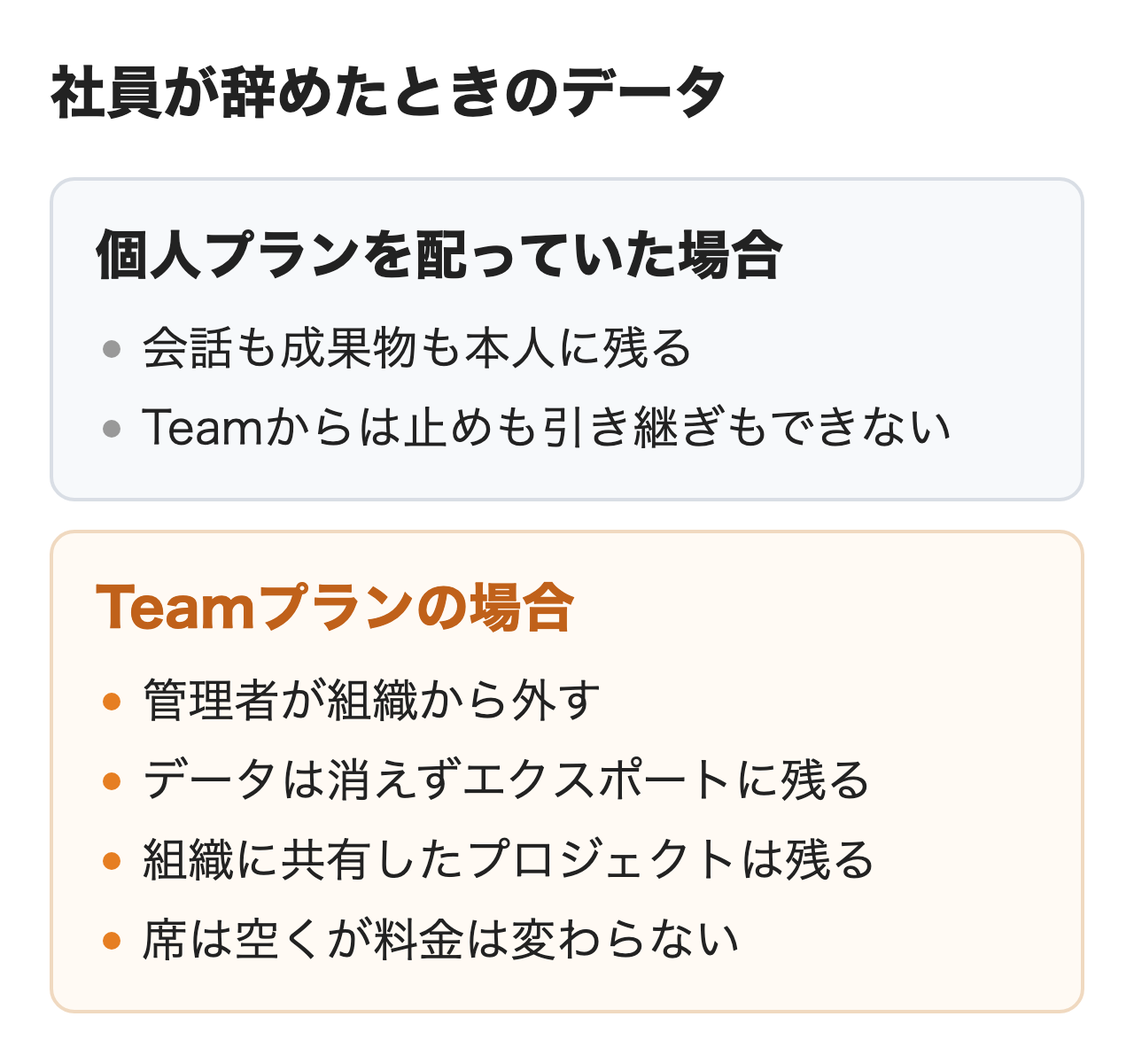
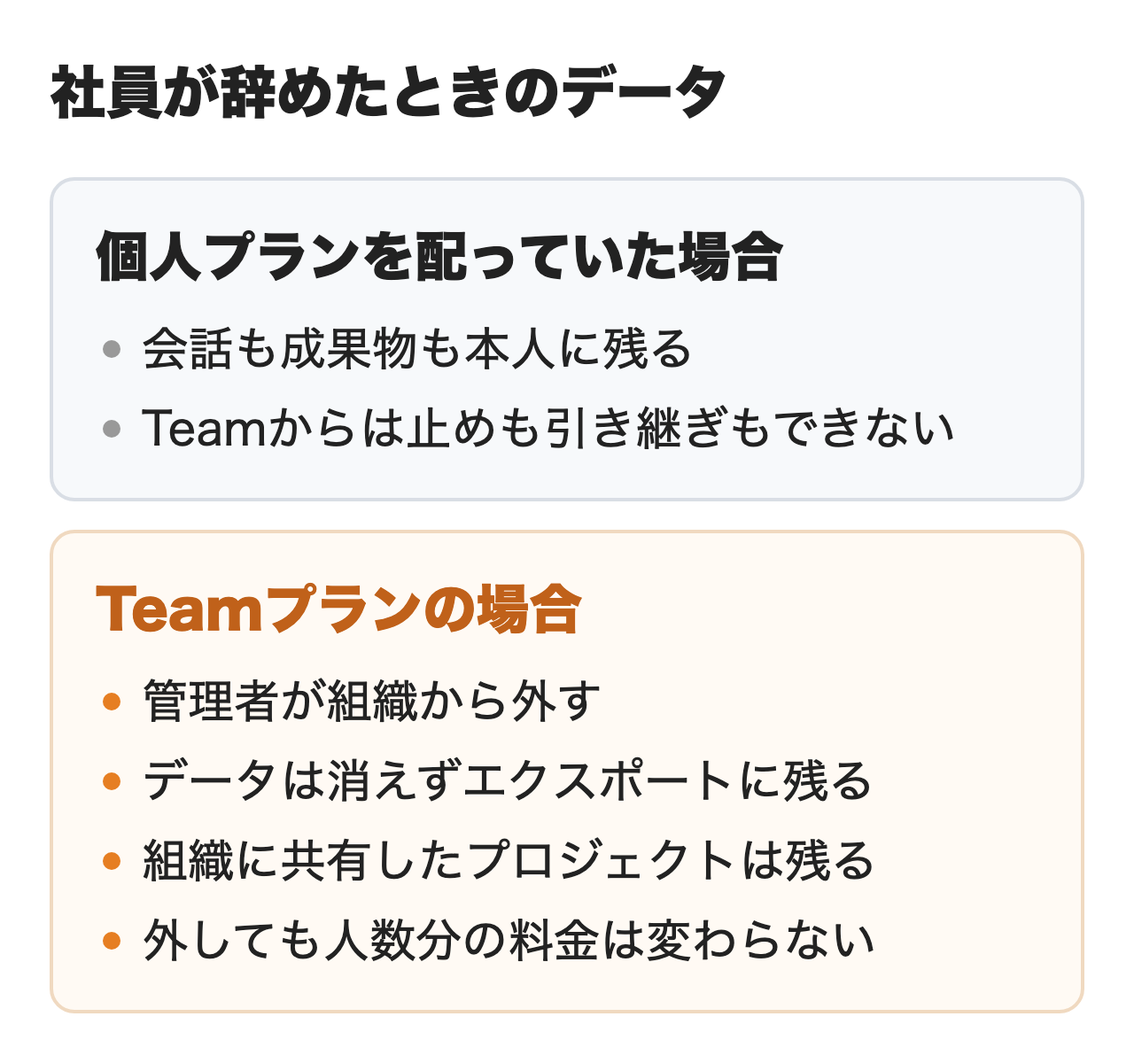
claude-team: 仕上げ（画像・OG）

diff --git a/media/posts/claude-team.md b/media/posts/claude-team.md
@@ -11,239 +11,215 @@ cover_headline: Claude Teamプランと個人プラン
 cover_sub: 料金・学習・退職時のデータ・請求
 ---
 
-Claude Teamプランは、2〜150名の組織が席の単位で契約するClaudeの法人向けプランです。日本の料金ページの表示はスタンダードシートが1席あたり月$27.50（年払いなら月$22）で、個人向けのProの月払い$22と近い金額です。
+Claude Teamプランは、2〜150人の組織が使う人数分を契約するClaudeの法人向けプランです（管理画面では1人分を「シート」と呼びます）。日本の料金ページの表示はスタンダードが1人あたり月$27.50（年払いなら月$22）で、個人向けのProの月払い$22と近い金額です。
 
-金額が近いため、会社で迷うのはTeamに入るか社員に個人プランを配るかです。この記事は2026年10月31日に確認した公式の料金ページ・ヘルプ・利用規約をもとに、料金と学習・会話の持ち主・退職時・請求の違いを並べます。
+金額が近いため、会社で迷うのはTeamに入るか社員に個人プランを配るかです。この記事は2026年10月31日に確認した公式の料金ページ・ヘルプ・利用規約をもとに、料金・学習・退職時・請求の違いと、それを判断にどう使うかを書きます。
 
 :::takeaways
-- スタンダードは**1席月$27.50（年払いは月$22）**、プレミアムは$137.50（$110）。どれも消費税10%込みのドル建て
-- **個人プランとの差は使える量より管理にある**。学習の既定・商用の規約・会話の持ち主・支出上限・請求の一本化がTeamにだけ付く
-- 1人ならPro・Max・Ultra。**社員が会社の情報を入れるなら2人からTeam**。150席超や請求書払いはEnterprise
+- **スタンダードはProの1.25倍の値段だが、使える量も1.25倍**。量あたりの値段は個人プランと同じ
+- **差が出るのは学習の管理・退職時の会話・請求書の本数**。Ultra並みに使える1人分はTeamに無い
+- 1人ならPro・Max・Ultra。**社員が会社の情報を入れるなら2人からTeam**。150人超や請求書払いはEnterprise
 :::
 
 ## Claude Teamプランとは
 
-Anthropicは会社向けの契約をClaude for Workと呼び、TeamとEnterpriseがこれに入ります。[Team プランとは何ですか？](https://support.claude.com/ja/articles/9266767)のヘルプによると、TeamはProの機能（全モデル・Claude Code・Cowork・プロジェクト・コネクタ）に、請求と管理の一元化・SSO・支出上限・エンタープライズ検索を足したプランです。
+[Team プランとは何ですか？](https://support.claude.com/ja/articles/9266767)のヘルプによると、TeamはProの機能（全モデル・Claude Code・Cowork・プロジェクト・コネクタ）に、請求と管理の一元化・SSO・支出上限・エンタープライズ検索を足したプランです。**Proの機能はほぼそのまま入るため、Teamを選ぶ理由は機能より管理の側にあります。**例外はArtifactsの公開がTeamではできないことと、Coworkのウェブ版とモバイル版がTeamではベータであることです。
 
-<figure class="post-figure"><img src="/media/images/claude-team/ctm_00_overview_1031.png" alt="Claude Teamプランと個人プランの違いの概要図。個人プランは本人のアカウントで学習は本人が設定し請求は1人ずつ、Teamプランは組織のアカウントで学習は既定で使わず請求は組織で1枚" loading="lazy"></figure>
+<figure class="post-figure"><img src="/media/images/claude-team/ctm_00_overview_1031.png" alt="Claude Teamプランと個人プランの判断材料の概要図。変わらない点は量あたりの料金・機能・カード払い、異なる点は学習の設定の管理・退職者の会話・請求書の本数・Ultra並みの量" loading="lazy"></figure>
 
-席はスタンダードとプレミアムの2種類で、組み合わせて2席から150席まで契約します。今のヘルプの条件は最低2人です。[Team プランを始める](https://support.claude.com/ja/articles/9267247)のヘルプは「個人での利用を想定していない」とし、申し込む人には会社のドメインのメールアドレスを求めています（@gmail.comなどは不可）。
+[Team プランを始める](https://support.claude.com/ja/articles/9267247)のヘルプは最低2人とし、「個人での利用を想定していない」と書いています。申し込みには会社のドメインのメールアドレスが要ります。**1人で使うだけならTeamはそもそも選べないプランです。**
 
 ## Claude Teamプランの料金
 
 [Claudeの料金ページ](https://claude.com/ja/pricing)のTeam & Enterpriseタブには、次の金額が並びます。
 
-| 席の種類 | 年払い（月あたり） | 月払い | 1セッションの量 |
+| 種類 | 年払い（月あたり） | 月払い | 5時間の枠 |
 |---|---|---|---|
 | スタンダード | $22 | $27.50 | Proの1.25倍 |
 | プレミアム | $110 | $137.50 | Proの6.25倍 |
 
-ページの下に「Prices include 10% JCT」とあり、日本から見た金額は消費税10%込みです。ヘルプの金額は米国向けの税抜き（スタンダード$20・$25、プレミアム$100・$125）で、10%を足すと一致します。[消費税のお知らせ](https://support.claude.com/ja/articles/14051822)によると、2026年4月1日から日本の顧客に消費税を別に請求していて、請求の通貨はドルのまま、消費税額は適格請求書に円で載ります。登録番号と請求書の宛名は[Claudeの領収書の記事](/media/claude-invoice/)で扱いました。
+ページの下に「Prices include 10% JCT」とあり、日本から見た金額は消費税10%込みです。ヘルプの金額は米国向けの税抜き（スタンダード$20・$25、プレミアム$100・$125）なので、**英語のヘルプにある$25と日本の画面の$27.50は同じ値段です。**請求はドルのままで、消費税額は[消費税のお知らせ](https://support.claude.com/ja/articles/14051822)のとおり適格請求書に円で載ります（詳しくは[Claudeの領収書の記事](/media/claude-invoice/)）。
 
-年払いは1年分を一括で払い、スタンダード1席なら$264です。月払いから年払いへはいつでも切り替えられ、月払いの残りの期間は最初の年間の請求に充てられます。支払いはクレジット・デビット・プリペイドのカードだけで、銀行振込と請求書払いはTeamにありません。
+年払いは1年分の一括払いで、月払いの残りの期間は最初の年間の請求に充てられるため、月払いで始めて定着を見てから年払いに切り替えても損はしません。支払いはクレジット・デビット・プリペイドのカードだけです。
 
-### 人数別の月額
+### 量あたりの値段は個人プランと同じ
 
-Proを人数分配る場合とスタンダードで契約する場合を、日本の税込み表示で並べました。
+スタンダードはProの1.25倍の値段ですが、5時間の枠もProの1.25倍です。月払いで5時間の枠の倍率あたりに直すと、Pro（$22÷1）・Max（$110÷5）・スタンダード（$27.50÷1.25）・プレミアム（$137.50÷6.25）はどれも$22になります（nitoの試算。Teamの週の上限の倍率は公開されていないため、5時間の枠だけで比べた値）。**量あたりの値段が変わらないので、料金だけではTeamか個人プランかは決まりません。**
 
-| 人数 | Proを配る（月払い） | Proを配る（年払い） | スタンダード（月払い） | スタンダード（年払い） |
-|---|---|---|---|---|
-| 2人 | $44 | $36 | $55 | $44 |
-| 5人 | $110 | $90 | $137.50 | $110 |
-| 10人 | $220 | $180 | $275 | $220 |
+支払額だけならProを配るほうが1人あたり月$4〜5.50安くなります（Proは月払い$22・年払いなら月$18）。その差で増えるのは1.25倍の量と会社の管理の機能なので、決め手はこのあと取り上げる学習・退職時・請求の違いになります。
 
-**スタンダードの年払いはProの月払いと同じ額で、Proの年払いより1人あたり月$4高くなります。**1ドル150円なら1人あたり月600円ほどの差で、その代わりに使える量が1.25倍になり、管理と請求がまとまります。
+**ただし個人プランにはUltraがあり、Teamにはプレミアムより上の1人分がありません。**Ultraは月$220で、週の上限がProの10倍、認証済みのアカウントなら5時間の枠もありません。Ultra並みに使う社員がいる会社は、ここがTeamにするかどうかの分かれ目です。
 
-### 席の組み合わせと日割り
+### 1人ずつ選べるプランの組み合わせ
 
-[シートの購入と管理](https://support.claude.com/ja/articles/12004354)のヘルプによると、席は「スタンダード30・プレミアム10」のように混ぜられます。**招待を送った相手は承諾する前から1席を使う扱い**です。席を足す変更とスタンダードからプレミアムへの変更はすぐ効き、差額の日割りがその場で請求されます。席を減らす変更とプレミアムからスタンダードへの変更は、次の更新日（年払いなら年の更新日）からです。
+[シートの購入と管理](https://support.claude.com/ja/articles/12004354)のヘルプによると、Teamは「スタンダード30人・プレミアム10人」のように混ぜて契約できます。**Teamで入っても全員を同じプランにする必要はなく、1人ずつスタンダードかプレミアムかを選び、あとから変えられます。**
+
+人数を足す変更とプレミアムへ上げる変更はすぐ効き、差額の日割りがその場で請求されます。人数を減らす変更とスタンダードへ下げる変更は、次の更新日（年払いなら年の更新日）からです。
+
+招待した相手も承諾する前から1人分として数えられます。**承諾されないまま放っておくと、その1人分は誰も使わないのに料金がかかり、ほかの人も入れられません。**招待は21日で切れるので、送ったら本人に声をかけておくのが確実です。
 
 ### 使い切ったあとの使用クレジット
 
-席ごとの枠を使い切ると、上限が戻るまで待つのが基本で、費用は増えません。待たずに続けたいときはオーナーが[使用クレジット](https://support.claude.com/ja/articles/12005970)を有効にします。前払いの残高からAPIの標準料金で引かれ、残高が減ったときの自動チャージも選べます（例: Sonnet 5.5は100万トークンあたり入力$2・出力$10）。
+**1人ずつの枠を使い切っても、何も設定しなければ上限が戻るまで待つだけで、費用は増えません。**待たずに続けたいときはオーナーが[使用クレジット](https://support.claude.com/ja/articles/12005970)を有効にし、前払いの残高からAPIの標準料金で引かれます。上限は組織全体と1人ずつの2段で付けられ、決めていない組織は管理画面に無制限と出ます。**使用クレジットを有効にする日に、組織全体の上限も入れておくのがおすすめです。**
 
-**上限は組織全体の月額と、1人ずつの月額の2段で付けられます。**上限を決めていない組織は管理画面に無制限と出るため、有効にする日に上限も入れておきます。1人の上限に届くとその人の使用クレジットは月末まで止まり、確認が1回のリクエストの前に行われる仕組みなので、上限を少し超えることはあります。
-
-Teamには別に月額のAPIクレジットが全席の合算で最大$500付きます（スタンダード1席$20・プレミアム1席$100）。[請求の計算のヘルプ](https://support.claude.com/ja/articles/9267289)の例では、スタンダード3席とプレミアム2席で月$260です。このクレジットはAPI用で、Claude Codeやアプリの追加の利用には使えません。
+Teamに別に付く月額のAPIクレジット（全員の合算で最大$500）は、Claude Codeやアプリの追加の利用には使えないため、枠を使い切ったときの穴埋めにはなりません。
 
 ## Claude Teamプランと個人プランの違い
 
-料金ページの比較表と公式のヘルプ・規約から、個人プランとTeamの違いを並べました。
+料金以外の違いを公式の比較表・ヘルプ・規約から並べました。
 
 | 比べる点 | 個人プラン（Pro・Max・Ultra） | Teamプラン |
 |---|---|---|
-| 月額（税込） | Pro $22（年払い$18）・Max $110・Ultra $220 | スタンダード$27.50・プレミアム$137.50 |
-| 使える量 | Pro基準・Maxは5倍・Ultraは週10倍 | スタンダード1.25倍・プレミアム6.25倍 |
 | 学習の扱い | 本人が設定で選ぶ | 既定で使わない |
 | 適用される規約 | 個人向けの利用規約 | 商用の契約 |
 | SSO・ドメインの管理 | なし | SSO・ドメイン確認・組織の作成の制限 |
-| 管理者の統制 | なし | 役割（オーナー・管理者など）・席・支出上限・機能のオンオフ・利用状況の分析 |
+| 管理者の統制 | なし | 役割（オーナー・管理者など）・人数とプランの割り当て・支出上限・機能のオンオフ・利用状況の分析 |
 | 会話の持ち主 | 本人のアカウント | 組織（プライマリオーナーが管理） |
 | 退職したとき | 会社からは止められない（移せるのはEnterpriseだけ） | 管理者が外せる |
 | 共有 | 組織での共有はない | プロジェクト・コネクタ・Skillsを組織で |
 | 請求 | 1人ずつのカード払い | 組織で1本のカード払い |
 
-**金額の差は小さく、はっきり違うのは学習・規約・データの持ち主・管理の4つです。**会社の判断に効く順に下で取り上げます。
-
-<figure class="post-figure"><img src="/media/images/claude-team/ctm_02_personal_compare_sp.jpg" alt="Claudeの料金ページの個人プランの比較表をスマホで開いた画面。列は左からFree・Pro・Max・Ultraで、モデルのトレーニングはどの列もオプトアウト、ユーザーおよび組織レベルの支出管理と一元的な請求と管理はどの列もいいえ" loading="lazy"><figcaption>個人プランの比較表の管理の行（左からFree・Pro・Max・Ultra、2026年10月31日）</figcaption></figure>
+**料金と機能はほぼ同じで、はっきり違うのは学習・規約・会話の持ち主・管理の4つです。**どれも1人で使うぶんには困らず、会社が何人かに使わせたときに初めて差になります。
 
 ### 学習の扱い
 
-料金ページの比較表のモデルのトレーニングの行は、Teamが「デフォルトではなし」、個人の4列が「オプトアウト」です。[商用規約](https://www.anthropic.com/legal/commercial-terms)も、顧客のコンテンツでモデルを訓練しない決まりです。ただし[商用製品の学習のヘルプ](https://privacy.claude.com/ja/articles/7996868)によると、高評価・低評価のボタンでフィードバックを送った会話は最大5年保存され、学習に使われることがあります。**オーナーとプライマリオーナーなら、組織設定のデータとプライバシーにあるチャットを評価の設定でこの送信を止められます。**
+料金ページの比較表のモデルのトレーニングの行は、Teamが「デフォルトではなし」、個人の4列が「オプトアウト」です。[商用規約](https://www.anthropic.com/legal/commercial-terms)も顧客のコンテンツでモデルを訓練しない決まりで、個人プランは[プライバシーセンターの説明](https://privacy.claude.com/en/articles/10023580)のとおり、本人が設定で許可したときに学習に使われます。**個人プランでも全員が設定をオフにすれば、ふだんの会話が学習に使われない点はTeamと同じになります。**残る差は例外の条件と、それを会社が確かめられるかどうかです。
 
-個人プランは[プライバシーセンターの説明](https://privacy.claude.com/en/articles/10023580)のとおり、学習に使われるのは本人が設定で許可したときです。許可していなくても、フィードバックを送った会話と安全性の確認の対象になった会話は学習に使われることがあります。**Proを人数分配っても、全員の設定がオフかを会社として確かめる手段はありません。**
+**高評価・低評価のボタンでフィードバックを送った会話は、TeamでもProでも学習に使われることがあります。**[商用製品の学習のヘルプ](https://privacy.claude.com/ja/articles/7996868)では、Teamでもこうした会話は最大5年保存されるとされています。Teamならオーナーとプライマリオーナーが組織設定のデータとプライバシーにあるチャットを評価の設定で送信ごと止められ、個人プランは一人ひとりがボタンを押さないようにするしかありません。個人向けの規約はさらに、オフにしていても安全性の確認の対象になった会話は学習に使うと書いています。
+
+消した会話がAnthropicのシステムから消えるまでの期間は、個人もTeamも30日以内で変わりません。個人プランで学習を許可した場合に限り、会話の保存が最大5年に延びます。
+
+**会社の情報を入れる前提なら、Teamを選ぶのがおすすめです。**Proを人数分配った場合、全員の設定がオフかを会社として確かめる手段がありません。ただし学習に使われないことと何を入れてもよいことは別の話で、顧客の個人情報や契約書を入れてよいかは、どのプランでも契約の前に社内で決めておく必要があります。
 
 ### 個人プランを仕事に使うときの規約
 
-[個人向けの利用規約](https://www.anthropic.com/legal/consumer-terms)は冒頭の注で、Claude.aiとProの利用は個人でも法人（entities）でも商用規約に含まれないと断っています。会社で使っても適用されるのは個人向けの規約です。業務での利用を一律に禁じる書き方ではなく、非商用に限るのは評価用に期間や機能を限って提供された場合です。一方で[Maxプランのヘルプ](https://support.claude.com/ja/articles/11049741)は個人消費者向けのプランだとし、組織のチームで使うならTeamとEnterpriseを見るよう案内しています。
+**個人向けの規約はProなどを仕事に使うこと自体を一律には禁じていません。**[個人向けの利用規約](https://www.anthropic.com/legal/consumer-terms)は冒頭の注で、Claude.aiとProの利用は個人でも法人（entities）でも商用規約に含まれないと断っていて、会社で使っても適用されるのは個人向けの規約です。非商用に限られるのは評価用に期間や機能を限って提供された場合だけです。ただし[Maxプランのヘルプ](https://support.claude.com/ja/articles/11049741)は個人消費者向けのプランだとし、組織のチームで使うならTeamとEnterpriseを案内しています。
 
-**ただしアカウントのログイン情報を他人と共有すること、アカウントを他人に使わせることは禁じられています。**1つのProを部署で回して使う形は規約違反です。会社のメールアドレスで作った個人アカウントは会社の法人向けアカウントに結び付けられ、管理者に会話を見られることがあります。結び付ける前にAnthropicから通知がありますが、会社がすでに社員へ知らせている場合は通知されないこともあります。
+**1つのProを部署で回して使う形は規約違反です。**規約はログイン情報の共有と、アカウントを他人に使わせることを禁じているため、人数より少なく契約して使い回す節約はできません。
 
-<figure class="post-figure"><img src="/media/images/claude-team/ctm_03_consumer_terms.jpg" alt="Anthropicの個人向け利用規約の2章。アカウントのログイン情報を共有してはならない、他人にアカウントを使わせてはならないという文と、勤務先のメールアドレスを使うとその組織のアカウントに結び付けられることがあるというBusiness Domainsの段落" loading="lazy"><figcaption>Anthropicの個人向け利用規約（2026年10月31日）</figcaption></figure>
+会社のメールアドレスで作った個人アカウントは、会社の法人向けアカウントに結び付けられ、管理者に会話を見られることがあります。結び付ける前にAnthropicから通知がありますが、会社がすでに社員へ知らせている場合は通知されないこともあるため、該当する社員には会社から先に伝えておくのがおすすめです。
 
 ### 会話の持ち主と退職したとき
 
-個人プランの会話と成果物は、規約上その人のアカウントのものです。Teamを契約しても、社員が辞めたあとに会社がその個人アカウントを止めたり引き継いだりする仕組みはありません。会社のメールで作られた個人アカウントを組織に移せるのはEnterpriseだけです。
+個人プランの会話と成果物は、規約上その人のアカウントに属します。Teamを契約しても、辞めた社員の個人アカウントを会社が止めたり引き継いだりする仕組みはなく、会社のメールで作られた個人アカウントを組織に移せるのはEnterpriseだけです。**個人プランを配った会社でいちばん困るのは、辞めた人の業務の会話や資料を会社に残せないことです。**
 
-<figure class="post-figure"><img src="/media/images/claude-team/ctm_04_data_owner.png" alt="社員が辞めたときのデータの扱いを比べた図。個人プランは会話も成果物も本人のアカウントに残りTeamからは止めも引き継ぎもできない。Teamプランは管理者が外し、データは消えず組織のエクスポートに残り、共有していたプロジェクトは残る" loading="lazy"></figure>
+<figure class="post-figure"><img src="/media/images/claude-team/ctm_04_data_owner.png" alt="社員が辞めたときのデータを比べた図。個人プランは本人に残り会社からは止めも引き継ぎもできない。Teamは管理者が外してもデータは消えずエクスポートに残り、共有したプロジェクトも残るが、人数分の料金は変わらない" loading="lazy"></figure>
 
-Teamのメンバーのデータは、[チームのデータの所有者のヘルプ](https://support.claude.com/ja/articles/9265372)にあるとおりプライマリオーナーが管理します。[メンバーを外したときのヘルプ](https://support.claude.com/ja/articles/12053672)によると、外しただけではアカウントもデータも消えません。
+Teamのメンバーのデータは、[チームのデータの所有者のヘルプ](https://support.claude.com/ja/articles/9265372)のとおりプライマリオーナーが管理します。ただし[メンバーを外したときのヘルプ](https://support.claude.com/ja/articles/12053672)によると、外してもデータが消えない代わりに、会話がほかのメンバーへ引き継がれるわけでもありません。
 
 | 外したあとのもの | どうなるか |
 |---|---|
-| 本人だけのプロジェクト | 他のメンバーは開けない |
+| 本人だけのプロジェクト | ほかのメンバーは開けない |
 | 組織に共有したプロジェクト | Teamのタブに残り、残ったメンバーが使える |
-| チャット（組織に共有したものも） | 他のメンバーは開けない |
+| チャット（組織に共有したものも） | ほかのメンバーは開けない |
 | 同じメールで戻したとき | チャット・プロジェクト・Skillsが戻る |
-| 席と請求 | 席が空くだけで、料金は減らない |
+| 人数分の料金 | 減らない（空いた1人分に別の人を入れられる） |
 
-**辞めた人の会話を会社に残すなら、プライマリオーナーが組織のデータをエクスポートしておきます。**外した人のデータも入っていて、完全な削除をサポートに頼むのはそのあとです。削除は取り消せません。本人だけのプロジェクトを引き継ぐなら、外す前にプロジェクトの権限を組織全員の編集か特定の人の編集可能に変えておきます。
+**一見Teamなら全部が会社に残りそうですが、ほかのメンバーがそのまま開けるのは組織に共有したプロジェクトだけです。**会話を残すならプライマリオーナーが組織のデータをエクスポートしておきます。外した人のデータも入るので、完全な削除をサポートに頼むのはそのあとです。本人だけのプロジェクトも外す前に権限を組織全員の編集か特定の人の編集可能に変えておけば引き継げます。
 
-<figure class="post-figure"><img src="/media/images/claude-team/ctm_05_remove_member.jpg" alt="Claudeのヘルプの組織からメンバーを削除したときの説明。削除してもアカウントとデータは消えず、完全に削除する前にプライマリオーナーのアカウントで組織のデータをエクスポートするよう案内している" loading="lazy"><figcaption>メンバーを外したときのデータの扱い（Anthropicヘルプセンター、2026年10月31日）</figcaption></figure>
+<figure class="post-figure"><img src="/media/images/claude-team/ctm_05_remove_member.jpg" alt="Claudeのヘルプの組織からメンバーを削除したときの説明。削除してもアカウントとデータは消えず、データのコピーが要るならまずプライマリオーナーのアカウントで組織のデータエクスポートを実行するよう案内している" loading="lazy"><figcaption>メンバーを外したときのデータの扱い（Anthropicヘルプセンター、2026年10月31日）</figcaption></figure>
 
 ### 管理者ができることと見えるもの
 
-Teamのオーナーは組織設定から次の機能を切り替えます。
+オーナーが組織設定で切り替える主な機能です。既定でオンのものとオフのものが混ざっているため、導入の日に一通り確かめておくのがおすすめです。
 
 - ウェブ検索（オーナーが組織でオンにするまで使えない）
-- コードの実行とファイルの作成（既定でオン）
+- コードの実行とファイルの作成・Coworkとクラウドでの実行（既定でオン）
 - コネクタ（組織が許可したあと各自がつなぐ。見える範囲は元のツールの権限どおり）
-- Coworkとクラウドでの実行（どちらも既定でオン）
-- プロジェクトの共有（オフにすると公開中のプロジェクトは非公開に戻る）
+- プロジェクトの共有
 - チャットの評価（オフにするとAnthropicにフィードバックを送れなくなる）
 
-自社のドメインを確認すると、**そのドメインで新しい組織や個人アカウントを作らせない設定**も選べます。これから社員が会社のメールで個人契約を始めるのは止められますが、すでにある個人アカウントは残ります。
+自社のドメインを確認すると、**そのドメインで新しい組織や個人アカウントを作らせない設定**も選べます。止められるのはこれから作られるアカウントで、すでにある個人アカウントは残るため、Teamに寄せると決めたら早めに設定するほど管理の外のアカウントが増えずに済みます。
 
-[使用状況の分析](https://support.claude.com/en/articles/12883420)でオーナーとプライマリオーナーが見られるのは、アクティブな人数・会話の数・支出などの数字です。会話の中身はこの画面に出ませんが、プライマリオーナーのデータのエクスポートには会話が含まれます。導入のときに社員へそう伝えておくと誤解が起きません。
+[使用状況の分析](https://support.claude.com/en/articles/12883420)でオーナーとプライマリオーナーが見られるのは、アクティブな人数・会話の数・支出などの数字です。**管理者はふだんの画面では会話を読めないものの、プライマリオーナーのデータのエクスポートには会話が含まれるため、導入のときに社員へそう伝えておくと誤解が起きません。**
 
-Teamにもプライマリオーナー・オーナー・管理者・メンバーの役割があり、招待と削除は管理者から、請求はオーナーから操作します。SCIM・監査ログ・データ保持期間の設定・機能ごとに権限を分けるカスタムの役割は、料金ページとヘルプでEnterpriseだけです。違いは[Claude Enterpriseの記事](/media/claude-enterprise/)にまとめました。
+Teamにもプライマリオーナー・オーナー・管理者・メンバーの役割があり、招待と削除は管理者から、請求はオーナーから操作します。SCIM・監査ログ・データ保持期間の設定・機能ごとに権限を分けるカスタムの役割はEnterpriseだけで、違いは[Claude Enterpriseの記事](/media/claude-enterprise/)にまとめました。
 
 ### 請求と経費の処理
 
-[Teamの請求のよくある質問](https://support.claude.com/ja/articles/12997503)によると、Teamの請求書は組織設定の請求からダウンロードでき、請求先のメールにも届きます。個人プランもウェブで契約すればカード払いで、どちらも請求書の宛名を会社名にでき、納税者番号も登録できます。
+[Teamの請求のよくある質問](https://support.claude.com/ja/articles/12997503)によると、Teamの請求書は組織設定の請求からダウンロードでき、請求先のメールにも届きます。個人プランも同じくカード払いで、どちらも宛名を会社名にでき、納税者番号も登録できます。
 
-違いは本数です。**個人プランは人数分の請求書を1人ずつ経費で精算し、Teamは組織の1本にまとまります。**発行済みの請求書は直せないため、宛名は最初の請求の前に入れておきます。
+**経理の手続きはどちらでもでき、違うのは請求書の本数です。**個人プランは10人に配れば毎月10枚を1人ずつ精算し、Teamは組織の1本にまとまります。発行済みの請求書は直せないので、宛名は最初の請求の前に入れておく必要があります。
 
 ## 会社でもClaudeの個人プランを導入するのはあり？
 
-1人で使うなら個人プランで足ります。社員が会社の情報を入れるなら、2人からTeamにするほうが安全です。人数・扱う情報・使う量の3つで分けると、次のとおりです。
+**1人で使うなら個人プランで足り、2人以上が会社の情報を入れるならTeamを選ぶのがおすすめです。**人数・扱う情報・使う量の3つで分けると、次のとおりです。
 
-<figure class="post-figure"><img src="/media/images/claude-team/ctm_06_decide.png" alt="Teamか個人プランかを決める目安の図。1人で使うならPro・Max・Ultra、会社の情報を入れるなら2人からTeamのスタンダード、毎週上限に当たる人はその人だけプレミアム、150席超や請求書払いならEnterpriseを検討" loading="lazy"></figure>
+<figure class="post-figure"><img src="/media/images/claude-team/ctm_06_decide.png" alt="Teamか個人プランかを決める目安の図。1人で使うならPro・Max・Ultra、会社の情報を入れるなら2人からTeamのスタンダード、毎週上限に当たる人はその人だけプレミアム、150人超や請求書払いならEnterpriseを検討" loading="lazy"></figure>
 
-**1人で使うなら個人プランです。**Teamは2席からなので、1人のために2席分を払うことになります。
-
-**社員が顧客の情報や社外秘の資料を入れるなら、2人からTeamにします。**人数にかかわらずProを配るほうが1人あたり月$4〜5.50安いものの、学習の設定を会社として保証できず、退職したときに会話が本人の手元に残ります。
-
-1単位あたりの値段もほぼ同じです。月払いで5時間の枠の倍率あたりに直すと、Pro（$22÷1）・Max（$110÷5）・スタンダード（$27.50÷1.25）・プレミアム（$137.50÷6.25）はどれも$22です（nitoの試算。Teamの週の上限の倍率は公開されていないため、5時間の枠だけで比べた値です）。**Teamの1席が高く見えるのは使える量が多い分で、量あたりの値段は個人プランと変わりません。**
+**社員が顧客の情報や社外秘の資料を入れるなら、2人からTeamにするのがおすすめです。**Proを配るほうが1人あたり月$4〜5.50安いものの、学習の設定を会社として保証できず、退職したときに会話が本人の手元に残ります。月$4〜5.50の差で買っているのは、この2つを会社が管理できることです。使い道を公開されている情報の調べ物や文章の下書きに限るなら、個人プランを配る形でも回ります。
 
 ### MaxやUltraを会社で配るとき
 
-たくさん使う社員にMax（$110）やUltra（$220）を配る場合も、料金ページで管理の行（支出管理・請求の一元化・SSO・コネクタの管理）はどれもすべての列が「いいえ」です。アカウントは社員本人のもので、規約も個人向けのままです。経費は1人ずつの請求書で落とします。
+MaxやUltraを配っても、料金ページで管理の行（支出管理・請求の一元化・SSO・コネクタの管理）はどれもすべての列が「いいえ」で、規約も個人向けのままです。**MaxやUltraは使える量が増えるだけで、会社から見た管理のしにくさはProを配るのと変わりません。**
 
-Teamにはプレミアムを超える席がないため、Ultra並みの量が要る人はTeamに入れても足りないことがあります。その人だけ個人契約にするなら、入れてよい情報を社内の決まりで分けておきます。
+5時間の枠ではプレミアム（6.25倍）がMax（5倍）を上回るため、個人契約が要るのはUltra並みに使う人だけです。その人だけ個人契約にする場合も、入れてよい情報を社内の決まりで分けておくのがおすすめです。
 
 ### Enterpriseを検討するとき
 
 次のどれかに当たるならEnterpriseです。
 
-- 150席を超える
+- 150人を超える
 - 請求書払いが必須（営業担当経由の契約）
 - SCIMや監査ログが社内の規程で要る
 - 社員の既存の個人アカウントを会社がまとめて移したい
 
-セルフサービスのEnterpriseは1席月US$20（年払い・最低20席・税別の表示）に、使った分のAPI料金が乗ります。請求書払いができるのは営業担当経由のEnterpriseです。
-
-入力が学習に使われないことと何を入れてもよいことは、どのプランでも別の話です。顧客の個人情報や契約書を入れてよいかは、契約の前に社内で決めておきます。
+セルフサービスのEnterpriseは1人月US$20（年払い・最低20人・税別の表示）に、使った分のAPI料金が乗ります。**月$20だけを見るとTeamより安そうですが、税別のうえ使った分が別にかかり、20人に満たない会社でも20人分を払うことになります。**請求書払いができるのは営業担当経由のEnterpriseです。
 
 ## スタンダードとプレミアムの選び方
 
-[Teamのヘルプ](https://support.claude.com/ja/articles/9266767)では、プレミアムはスタンダードの機能をすべて含み、使える量が多い席です。表のとおり、ほかにFableの扱いと月額APIクレジットの額が違います。
+[Teamのヘルプ](https://support.claude.com/ja/articles/9266767)では、プレミアムはスタンダードの機能をすべて含み、使える量が多い1人分です。表のとおりFableの扱いと月額APIクレジットの額も違います。
 
 | 比べる点 | スタンダード | プレミアム |
 |---|---|---|
-| 1セッションの量 | Proの1.25倍 | Proの6.25倍 |
+| 5時間の枠 | Proの1.25倍 | Proの6.25倍 |
 | Claude Code・Cowork | 使える | 使える |
 | Claude Fable 5・5.1 | 最初から使用クレジットで従量 | 週の枠の50%までプラン内 |
-| 月額APIクレジット | 1席$20 | 1席$100 |
+| 月額APIクレジット | 1人$20 | 1人$100 |
 
-<figure class="post-figure"><img src="/media/images/claude-team/ctm_07_usage_1031.jpg" alt="ClaudeのヘルプのTeamプランの使用量の節。StandardシートはProのセッションあたりの上限の1.25倍、Premiumシートは6.25倍で、どちらも週単位の上限があり、上限はチーム全体でなくメンバーごとに付く" loading="lazy"><figcaption>Teamプランの使用量（Anthropicヘルプセンター、2026年10月31日）</figcaption></figure>
+**Claude Codeを使うからプレミアムにする、と決める必要はありません。**[Claude Codeのヘルプ](https://support.claude.com/ja/articles/11845131)によると、Claude Codeはスタンダードを含むすべての1人分に付き、ターミナル・デスクトップアプリ・IDEで同じ枠を使います。
 
-**上限はメンバーごとに付き、チームの中で分け合えません。**1つの席は指名された1人だけが使え、ログインの共有や1席を何人かで順番に使う形はヘルプで認められていません。週の上限はどちらの席にもあり、その倍率は公開されていません。5時間と週の枠の仕組みは[Claudeの使用制限の記事](/media/claude-usage-limits/)で扱っています。
+<figure class="post-figure"><img src="/media/images/claude-team/ctm_07_usage_1031.jpg" alt="ClaudeのヘルプのTeamプランの使用量の節。StandardシートはProのセッションごとの上限の1.25倍、Premiumシートは6.25倍で、使用量の制限はチーム全体でなくメンバーごとと書かれている" loading="lazy"><figcaption>Teamプランの使用量（Anthropicヘルプセンター、2026年10月31日）</figcaption></figure>
 
-[Claude Codeのヘルプ](https://support.claude.com/ja/articles/11845131)によると、Claude Codeはスタンダードを含むすべての席に付き、ターミナル・デスクトップアプリ・VS CodeなどのIDEで同じ席の枠を使います。Coworkは既定でオンで、Teamのウェブ版とモバイル版はベータです。
+**上限は1人ごとに付き、チームの中で分け合えません。**1人分は指名された1人だけが使え、ログインの共有や何人かで順番に使う形はヘルプで認められていないため、あまり使わない人の余りをたくさん使う人に回すことはできません。週の上限はどちらにもあり、倍率は公開されていません（枠の仕組みは[Claudeの使用制限の記事](/media/claude-usage-limits/)）。
 
-**まず全員スタンダードで始め、毎週上限に当たる人だけプレミアムに上げます。**上げる変更はすぐ効いて下げる変更は更新日からなので、この順番なら払いすぎが起きにくくなります。スタンダードの人の使用クレジットが毎月$100（税抜き）前後になるなら、プレミアムに上げたほうが安い計算です（nitoの試算）。Fableを日常的に使う人も、プレミアムを先に検討します。
+**まず全員スタンダードで始め、毎週上限に当たる人だけプレミアムに上げるのがおすすめです。**上げる変更はすぐ効き、下げる変更は更新日まで待つため、この順番なら払いすぎが起きにくくなります。スタンダードの人の使用クレジットが毎月$100（税抜き）前後になるなら、プレミアムに上げたほうが安い計算です（nitoの試算）。Fableを日常的に使う人もプレミアムが向いています。
 
-## Claude Teamプランに移るときと席を減らすとき
+## Claude Teamプランに移るときと人数を減らすとき
 
-会社のメールでProやMaxを使っていた人がTeamに入ると、同じアドレスに個人と組織の2つのアカウントができます。[個人アカウントを組織に移すヘルプ](https://support.claude.com/ja/articles/9267400)によると、招待を受けた人が選べるのは、両方を残す・データを持ち込んで組織だけにする・データを消すの3つです。
+会社のメールでProやMaxを使っていた人がTeamに入ると、同じアドレスに個人と組織の2つのアカウントができます。[個人アカウントを組織に移すヘルプ](https://support.claude.com/ja/articles/9267400)によると、招待を受けた人は両方を残す・データを持ち込んで組織だけにする・データを消すの3つから選びます。**持ち込みは一方通行で、組織に移した中身は個人に戻せません。**管理者が強制的に移す機能はEnterpriseだけです。
 
-**持ち込みは一方通行で、組織に移した中身は個人に戻せません。**社員の個人アカウントを管理者が強制的に移す機能はEnterpriseだけで、Teamでは本人が選びます。
+<figure class="post-figure"><img src="/media/images/claude-team/ctm_08_migrate.png" alt="Teamに持ち込むときのデータの図。移るのはチャット・プロジェクト・メモリ。移らないのはSkills・コネクタ・公開したArtifacts・Coworkのセッションで、持ち込みは一方通行" loading="lazy"></figure>
 
-<figure class="post-figure"><img src="/media/images/claude-team/ctm_08_migrate.png" alt="個人アカウントからTeamにデータを持ち込むときに移るものと移らないものの図。移るのはチャット・プロジェクト・アップロードしたファイル・メモリ・Claude Codeのメモリと設定。移らないのはカスタムのSkills・自分で足したコネクタ・公開したArtifacts・共有リンク・Coworkのセッション" loading="lazy"></figure>
+自分で作ったSkillsには移す手段が無く、会話の共有リンクは無効になります。**招待を送る前にSkillsを書き出しておくよう社員に伝えておくのがおすすめです。**
 
-| 移るもの | 移らないもの |
-|---|---|
-| チャットとその中のArtifacts | 自分で作ったSkills（先に書き出す） |
-| プロジェクト・指示・ファイル | 自分で足したコネクタと各アプリへのログイン |
-| アップロードしたファイル | 公開したArtifacts・会話の共有リンク（無効になる） |
-| メモリ・Claude Codeのメモリと設定 | Coworkのセッション・Claude Codeのクラウドのセッション |
+ウェブやGoogle Playで払っていた個人プランは持ち込みと同時に解約され、残りの期間の日割りが約24時間後に返金されます。**Apple App Storeで払っている人は自動で止まらないため、Appleの設定から自分で解約する必要があります。**解約しなければ個人のアカウントを閉じたあともAppleからの請求は止まりません。
 
-ウェブやGoogle Playで払っていた個人プランは持ち込みと同時に解約され、残りの期間の日割りが約24時間後に返金されます。**Apple App Storeで払っている人は自動で止まらないため、Appleの設定から自分で解約が必要です。**MaxやUltraでAPIクレジットを受け取っていた人は移ると個人側のつながりが切れ、組織の分はTeam開始から7日後にTeamのオーナーが受け取ります。
+Pro自体をclaude.ai/upgradeからTeamに上げる道もあり、[Team プランを始める](https://support.claude.com/ja/articles/9267247)のヘルプでは個人アカウントを別に保つにチェックを入れなければ、その組織がそのままTeamになります。私用の会話と会社の会話を分けたい人は、チェックを入れて別のアカウントにします。
 
-Pro自体をclaude.ai/upgradeからTeamに上げる道もあります。[Team プランを始める](https://support.claude.com/ja/articles/9267247)のヘルプでは、個人アカウントを別に保つにチェックを入れなければ、その組織がそのままTeamになるとの説明です。公開していたプロジェクトは非公開に変わり、個人で前払いした使用クレジットは返金されます。
+### 人数を減らすときと解約
 
-### 席を減らすときと解約
+メンバーを外すだけでは契約している人数は減りません。オーナーが組織設定で人数を減らすと次の更新日から料金が下がり、日割りの返金もありません。**年払いで多めに契約すると次の年の更新日まで減らせないため、最初は使う人数ちょうどで始め、足りなくなったら足すのがおすすめです。**
 
-メンバーを外しても席の数は減りません。オーナーが組織設定の席の数を減らすと次の更新日から料金が下がり、日割りの返金はありません。
-
-Team全体を[解約](https://support.claude.com/ja/articles/9267323)しても、今の請求期間の終わりまでは使えます。**解約したあとはメンバーを外す操作ができなくなる**ため、少ない席で契約し直すなら、先に人を整理しておきます。招待・役割・席の入れ替えの手順は[Claude Teamのメンバー管理の記事](/media/claude-team-admin/)に、契約の経路は[Claudeの法人契約の記事](/media/claude-corporate-contract/)に分けて載せています。
+Team全体を[解約](https://support.claude.com/ja/articles/9267323)しても、今の請求期間の終わりまでは使えます。**解約したあとはメンバーを外す操作ができなくなる**ため、少ない人数で契約し直すなら先に人を整理しておく必要があります。招待・役割の手順は[Claude Teamのメンバー管理の記事](/media/claude-team-admin/)に、契約の経路は[Claudeの法人契約の記事](/media/claude-corporate-contract/)に載せています。
 
 ## よくある質問
 
 ### Claude Teamプランは何人から契約できますか？
 
-2席から150席までです。申し込んだ本人も1席を使うので、もう1人を招待すれば始められます。1人での利用は想定されていないため、1人ならPro・Max・Ultraを選びます。
+2人から150人までです。申し込んだ本人ともう1人がいれば始められます。
 
 ### Claude Teamプランに無料トライアルはありますか？
 
-ありません。料金ページの比較表で、Teamのトライアルは「いいえ」です。「はい」になっているのは営業担当経由のEnterpriseだけです。
+ありません。料金ページの比較表で、Teamのトライアルは「いいえ」です。
 
 ### Claude Teamプランは請求書払いできますか？
 
-できません。Teamはカード払いだけで、銀行振込や請求書払いが要るなら営業担当経由のEnterpriseかクラウド経由の契約になります。
+できません。Teamはカード払いだけで、請求書払いが要るなら営業担当経由のEnterpriseかクラウド経由の契約になります。
 
 ### Claude Teamプランの会話は学習に使われますか？
 
-既定では使われません。料金ページの比較表でモデルのトレーニングは「デフォルトではなし」です。高評価・低評価のボタンでフィードバックを送った会話は学習に使われることがあり、オーナーは組織設定のチャットを評価の設定でこの送信を止められます。
-
-### Claude Teamプランの管理者は会話を見られますか？
-
-使用状況の分析の画面に出るのは人数・会話の数・支出などの数字だけです。ただしプライマリオーナーは組織のデータをエクスポートでき、そこにはメンバーの会話やファイルが含まれます。
-
-### Claude TeamプランでUltraの席は選べますか？
-
-選べません。Teamの席はスタンダードとプレミアムの2種類で、Ultraは個人向けのプランです。
+既定では使われません。高評価・低評価のボタンでフィードバックを送った会話は学習に使われることがあり、オーナーは組織設定のチャットを評価の設定でこの送信を止められます。
 
 ### Agent TeamsとClaude Teamは同じですか？
 
